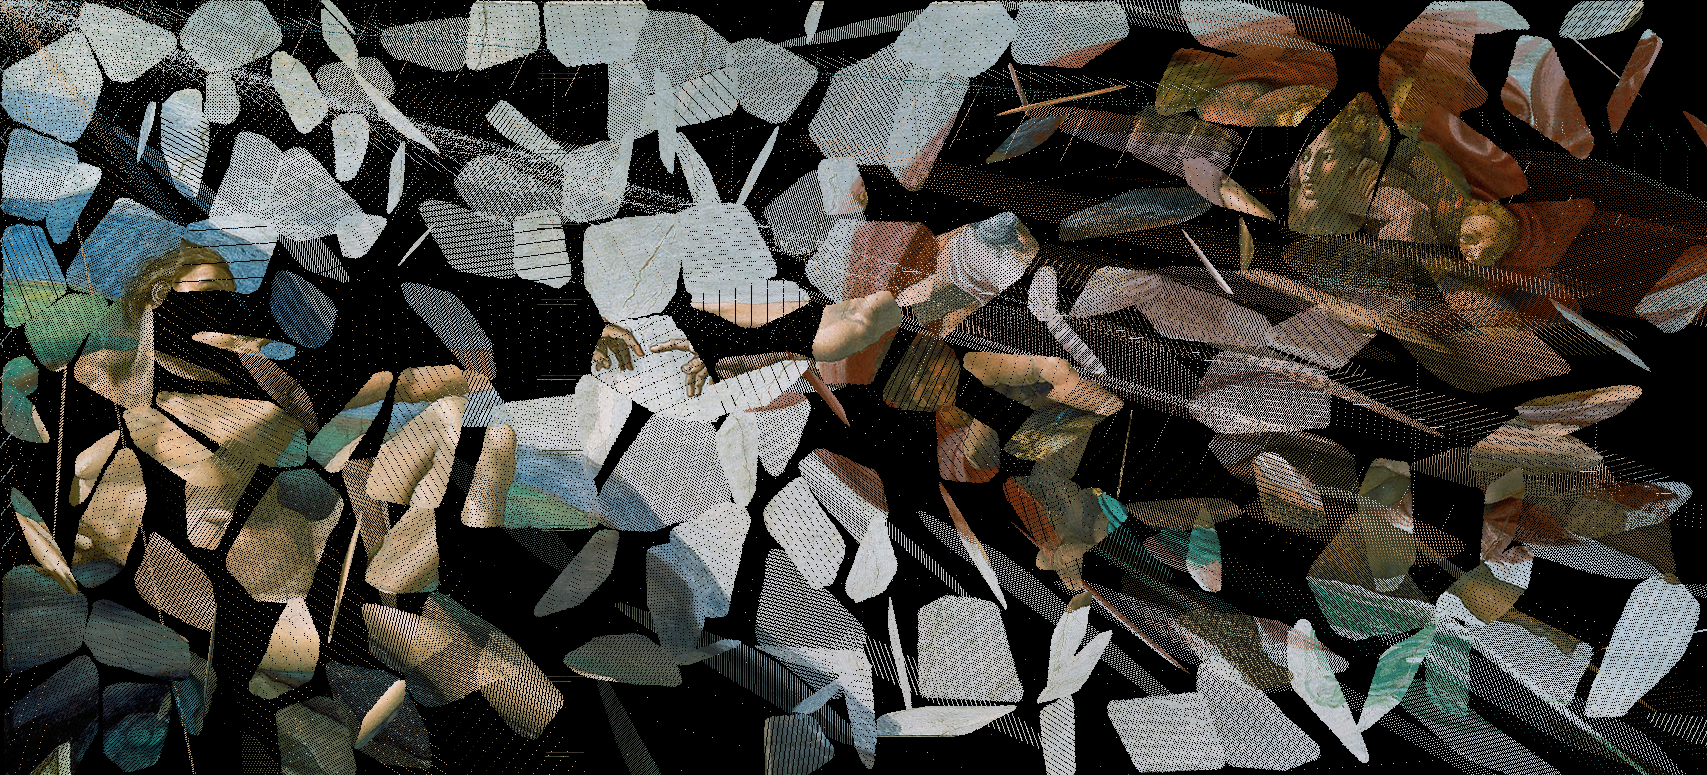
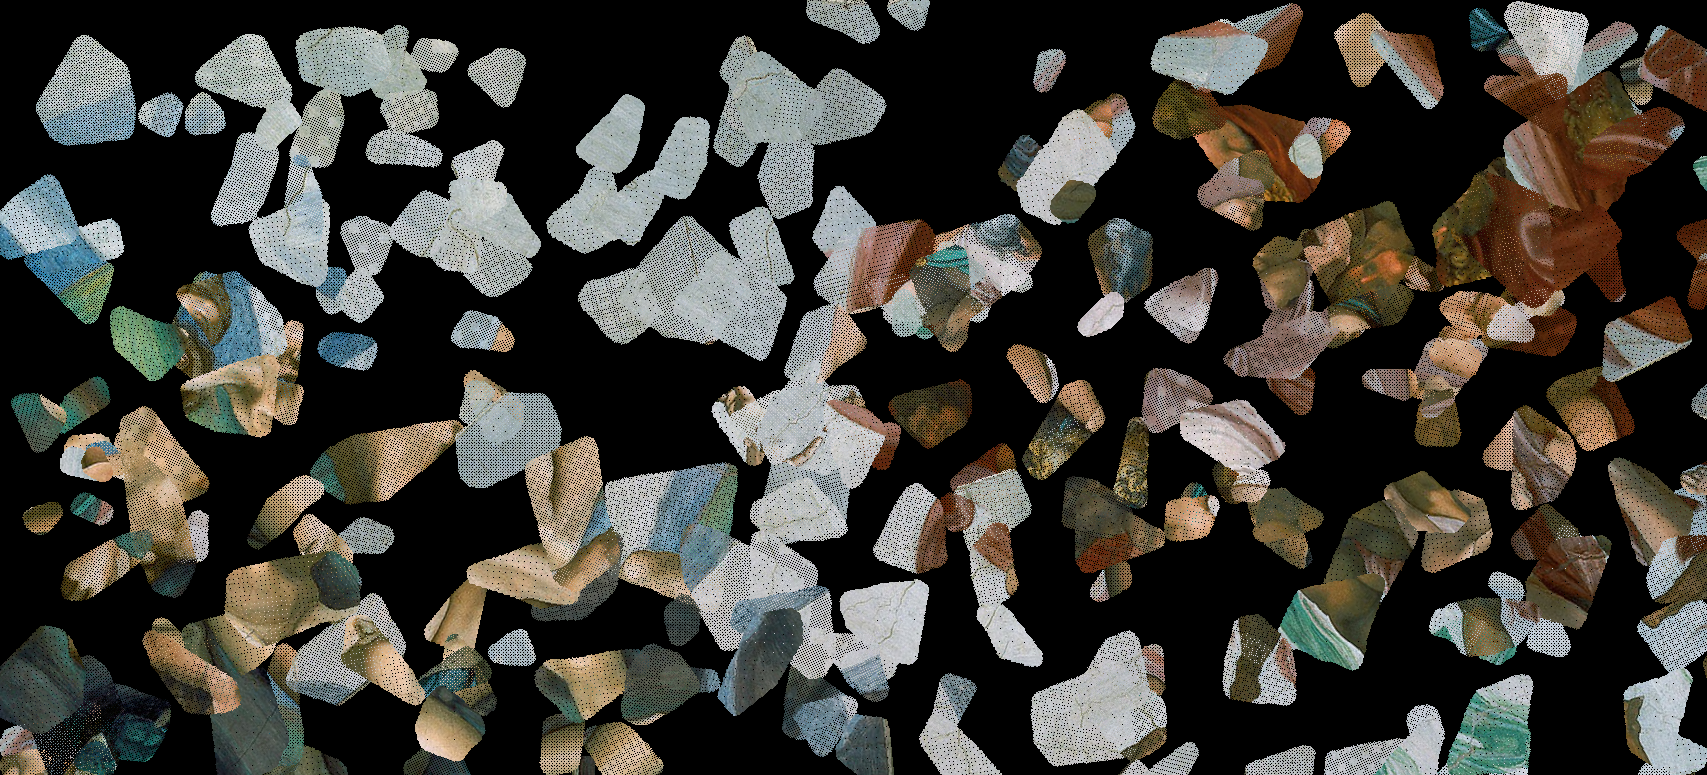
ransac with dx dy da

diff --git a/__ransac_functions.py b/__ransac_functions.py
@@ -1,4 +1,4 @@
-from math import asin, acos
+from math import asin, acos, cos, sin, pi
 import numpy as np
 import array as arr
 from PIL import Image
@@ -31,29 +31,39 @@ def get_line_number(file_name):
 
 
 def pair_filter(val_ligne):
+    result = True
     thresh_score = 2.2
     if (float(val_ligne[4]) < float(thresh_score)):
-        return False
-    return True
+        result = False
+    if (int(val_ligne[5]) == 0):
+        result = False
+    #print(val_ligne)
+    #print(result)
+    return result
 
 
 def get_data_from_file(file_name):
-    # Init np array
-    valeurs = np.zeros((get_line_number(file_name), 6))
-    idx_ligne = 0
+    # Init
+    #nb_total = get_line_number(file_name)
+    nb_valid = 0
     f = open(file_name, "r")
     Lines = f.readlines()
-    # Store lines
+    idx_ligne = 0
+    # Get number of valid pairs
+    for line in Lines:
+        val_ligne = line.split(" ")
+        if (pair_filter(val_ligne)):
+            nb_valid += 1
+    # Store valid pairs
+    valeurs = np.zeros((nb_valid, 6))
     for line in Lines:
         val_ligne = line.split(" ")
         if (pair_filter(val_ligne)):
             for i in range(6):
                 valeurs[idx_ligne][i] = float(val_ligne[i])
-        else:
-            for i in range(6):
-                valeurs[idx_ligne][i] = (-1)
-        idx_ligne += 1
-    return valeurs
+            idx_ligne += 1  
+        
+    return valeurs, nb_valid
 
 def filter_matches(valeurs, filter_local_max_0 = 1, ):
     index = []
@@ -114,6 +124,67 @@ def execute_ransac(x1, x2, y1, y2, printIt=False):
         plt.scatter(outPoints[:,0], outPoints[:,1], marker='.',c='r',linewidths=0)
         plt.show()
     return ransac.estimator_
+
+def getDaDxDyFromH(H):
+    dx = H[0,2]
+    dy = H[1,2]
+    da1 = acos(max(min(H[0,0], 1), -1))
+    da2 = acos(max(min(H[1,1], 1), -1))
+    da3 = asin(max(min(H[0,1], 1), -1))
+    da4 = asin(max(min(-H[1,0], 1), -1))
+    angles = [da1-(pi/2), da2-(pi/2), da3, da4]
+    da = sum(angles)/4
+    
+    print("dx / dy : " + str(dx) + " / " +str(dy))
+    print("da1 : " + str(da1))
+    print("da2 : " + str(da2))
+    print("da3 : " + str(da3))
+    print("da4 : " + str(da4))
+    print("avg da : " + str(da))
+    return dx, dy, da
+
+def copy_image_into_image_Transform(frag, fresque, dx, dy, da):
+    ##### INIT
+    img_frag = np.asarray(Image.open(frag))
+    img_fresque = np.asarray(Image.open(fresque))
+    img_fresque2 = img_fresque.copy()
+
+    ##### MODIFY
+    hf, wf = dimensions(img_fresque2)
+    h,w = dimensions(img_frag)
+    for i in range(w):
+        progress_bar(i/w, 'Copying image', 0)
+        for j in range(h):
+            # Calc new point
+            a = [[int(i)],[int(j)],[1]]
+            H = [[cos(da), sin(da), dx],[-sin(da), cos(da), dy],[0,0,1]]
+            fresque_pix = np.dot(H,a)
+            # Round and apply
+            newx = int(round(abs(fresque_pix[0,0])))
+            newy = int(round(abs(fresque_pix[1,0])))
+            #print([newx, newy])
+            r = (img_frag[j, i, 0])
+            g = (img_frag[j, i, 1])
+            b = (img_frag[j, i, 2])
+            if (not((r == 0) & (g == 0) & (b == 0))):
+                #if (i%20 == 0):
+                    #print("replacing pixel :")
+                    #print(img_fresque2[newy+dy, newx+dx])
+                    #print("by -> ", [r,g,b])
+                if((newy < hf) & (newx < wf)):
+                    if((newy >= 0) & (newx >= 0)):
+                        img_fresque2[newy, newx] = [r,g,b]
+                #np_fresque[newy+dy, newx+dx] = [r,g,b]
+                #print("replacing pixel at ", newy+dy, ", ", newx+dx)
+                #print([r,g,b])
+    
+    ##### SAVE
+    plt.imshow(img_fresque2)
+    plt.savefig("images/fresque_new.png")
+    print("Saving image : " + fresque)
+    img = Image.fromarray(np.uint8(img_fresque2))
+    img.save(fresque)
+    return
 
 def copy_image_into_image_OpenCV(frag, fresque, H):
     ##### INIT

diff --git a/__ransac.py b/__ransac.py
@@ -15,10 +15,10 @@ if (len(sys.argv) >= 2):
 	param1 = sys.argv[1]
 else:
 	param1 = "resultats3/1.txt"
-nb_paires = r_f.get_line_number(param1)
+
 
 print("\n--- Fragment "+str(param1)+" ---")
-print("- Extraction...", end="")
+print("- Extraction...")
 """
 if (nb_paires < 20):
 	print("Paires insuffisantes ("+str(nb_paires)+") pour l'image ", param1)
@@ -26,10 +26,11 @@ if (nb_paires < 20):
 else:
 	quit()
 """
+nb_total = r_f.get_line_number(param1)
+valeurs_txt, nb_paires = r_f.get_data_from_file(param1)
 
-nb_infos = 6
-valeurs_txt = r_f.get_data_from_file(param1)
-#print("Paired points amount : " + str(nb_paires))
+
+print("valid pairs : " + str(nb_paires) + " / " + str(nb_total))
 #print(valeurs_txt)
 
 #valeurs_txt = r_f.filter_matches(valeurs_txt) #filter matches
@@ -44,7 +45,7 @@ for i in range(nb_paires):
 	y1[i] = valeurs_txt[i][1]
 	x2[i] = valeurs_txt[i][2]
 	y2[i] = valeurs_txt[i][3]
-print("ok")
+
 #######################################################
 #  METHOD 1 : HOMOGRAPHY
 ####################################################### 
@@ -72,7 +73,7 @@ y_data_ransac = tmp[2]
 #######################################################
 #  METHOD 2 : RANSAC
 #######################################################
-print("- Calculate Ransac...", end="")
+print("- Calculate Ransac...")
 useOpenCV = True
 if (useOpenCV):
 	H = r_f.execute_openCV_ransac(x1, x2, y1, y2, False)
@@ -101,19 +102,21 @@ print("------------------------------------------------------")
 print(H.intercept_)
 """
 
-print("- Copying Image...", end="")
+print("- Copying Image...")
 frag_ppm = r_f.get_frag_name(param1)
 frag_png = "images/frag_tmp.png"
 r_f.convert_image(frag_ppm, frag_png)
-
+print(H)
+dx,dy,da = r_f.getDaDxDyFromH(H)
 if (useOpenCV):
-	r_f.copy_image_into_image_OpenCV(frag_png, "images/fresque_copy.png", H)
-	r_f.copy_image_into_image_OpenCV(frag_png, "images/fresque_empty.png", H)
+	r_f.copy_image_into_image_Transform(frag_png, "images/fresque_empty.png", dx, dy, da)
+	#r_f.copy_image_into_image_OpenCV(frag_png, "images/fresque_copy.png", H)
+	#r_f.copy_image_into_image_OpenCV(frag_png, "images/fresque_empty.png", H)
 
 else:
-	r_f.copy_image_into_image(frag_png, "images/fresque_copy.png", 0,0,0, H)
+	#r_f.copy_image_into_image(frag_png, "images/fresque_copy.png", 0,0,0, H)
 	r_f.copy_image_into_image(frag_png, "images/fresque_empty.png",0,0,0, H)
-
+print("ok")
 # DISPLAY RANSAC PAIRS
 #plt.subplot(121)
 #r_f.print_ransac(x1, x2, x1_ransac, x2_ransac, x_data_ransac)
